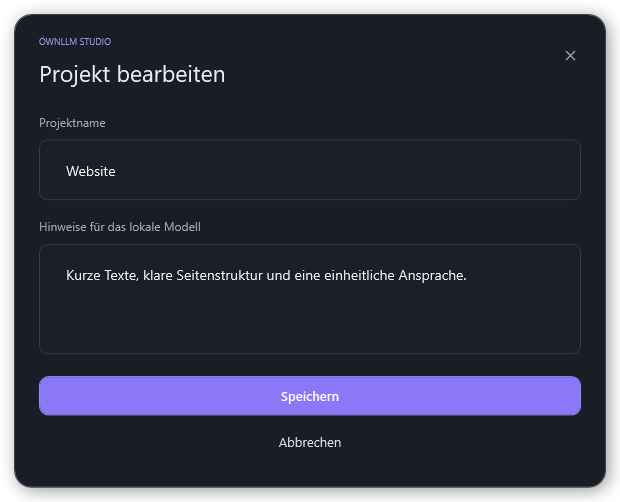
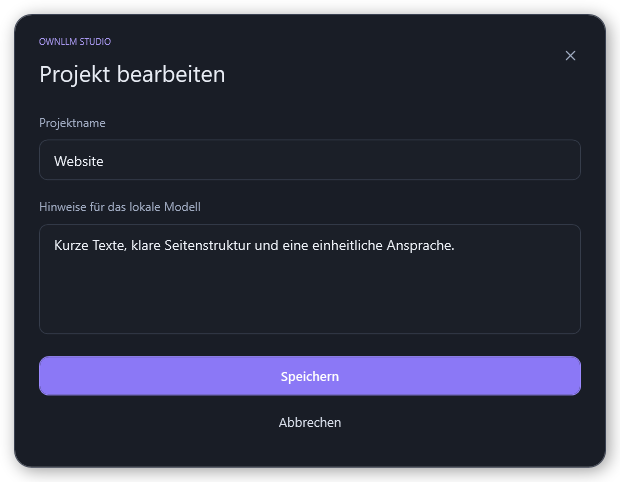
Present OwnLLM Studio 0.4.7 with screenshots and changelog

diff --git a/README.md b/README.md
@@ -7,7 +7,7 @@ OwnLLM Studio ist ein lokaler Assistent für Windows. Du sammelst Gespräche in 
 
 | Ausgabe | Download |
 | --- | --- |
-| Windows, 64 Bit | [Installer 0.4.6 herunterladen](https://github.com/ZUMBYTE-AppSolution/ownllm-release/releases/download/v0.4.6/OwnLLM-Studio-0.4.6-Windows-Setup.exe) |
+| Windows, 64 Bit | [Installer 0.4.7 herunterladen](https://github.com/ZUMBYTE-AppSolution/ownllm-release/releases/download/v0.4.7/OwnLLM-Studio-0.4.7-Windows-Setup.exe) |
 
 Der Installer enthält die Programmdateien und bietet eine Desktopverknüpfung an. Ein Sprachmodell kann bei der Einrichtung zusätzlich heruntergeladen werden. Visual Studio oder andere Entwicklungswerkzeuge brauchst du für die Nutzung nicht.
 
@@ -43,17 +43,13 @@ Die Bilder zeigen Beispielprojekte und einen lokal erzeugten App-Entwurf. Die Pa
 
 Seitenleiste, Gespräch und Vorschau lassen sich in der Breite verschieben. Während eines Auftrags zeigt die App die aktuelle Arbeitsphase an.
 
-## Neu in 0.4.6
+## Neu in 0.4.7
 
-- **Bild erstellen** in der Seitenleiste: ein Motiv beschreiben und direkt auf dem Rechner erzeugen lassen.
-- SDXL 1.0 und Stable Diffusion 1.5 unter **Einstellungen → Bilder** auswählen und kostenlos herunterladen.
-- Eigene Speicherorte für Bildmodelle und fertige Bilder; Downloads lassen sich anhalten und fortsetzen.
-- Automatische Beschleunigung, GPU über Vulkan oder Nur CPU unabhängig vom Sprachmodell wählen.
-- Fertige Bilder im Chat und in der Arbeitsfläche ansehen, speichern oder im Browser öffnen. Stopp beendet die Bilderzeugung.
+- Der Rechtsklick auf Chatnachrichten öffnet das Menü wieder ohne Absturz.
+- Das Titelfeld im Meldedialog ist vollständig sichtbar und lässt sich bearbeiten.
+- Kompakte Eingabefelder zeigen ihren Inhalt vollständig, auch bei Bildgröße und Bildschritten.
 
-![Lokal mit SDXL erzeugtes Bild in OwnLLM](assets/screenshots/ownllm-bilderzeugung.png)
-
-Die Modelle haben eigene Lizenzen, die bei der Auswahl verlinkt sind. Nach dem Download funktioniert die Bilderzeugung ohne Internetverbindung oder Konto bei einem Bilddienst.
+![Chatmenü mit Kopieren und Fehler melden](assets/screenshots/ownllm-chat-kontextmenue.png)
 
 [Ausführlicher Changelog](CHANGELOG.md)
 

diff --git a/CHANGELOG.md b/CHANGELOG.md
@@ -1,5 +1,11 @@
 # Changelog
 
+## 0.4.7 · 10. November 2026
+
+- Absturz beim Rechtsklick auf Chatnachrichten behoben. Menüeinträge und Trennlinien verwenden getrennte Vorlagen.
+- Titelfeld im Meldedialog sichtbar und bearbeitbar; Nachricht und automatische Versionsangabe werden weiterhin übernommen.
+- Doppelte Innenabstände in Textfeldern entfernt. Kompakte Eingabefelder für Bildmaße und Bildschritte zeigen ihre Werte vollständig.
+
 ## 0.4.6 · 10. November 2026
 
 - Bilder direkt in OwnLLM erstellen und im Chat, in der Mediathek und in der Arbeitsfläche ansehen, speichern oder im Browser öffnen.
